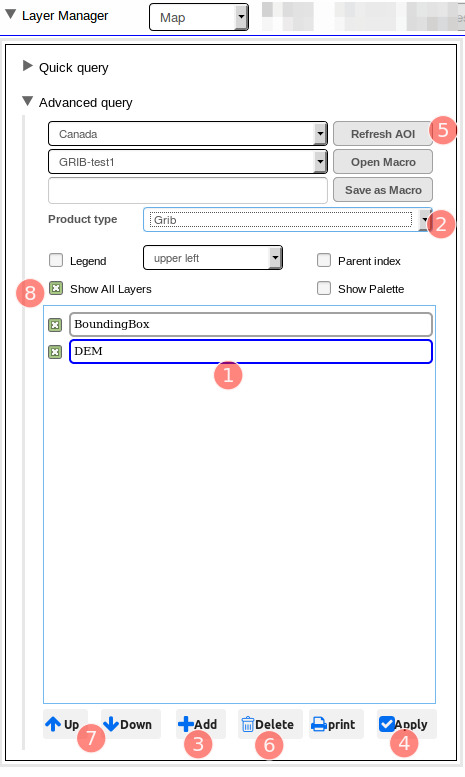
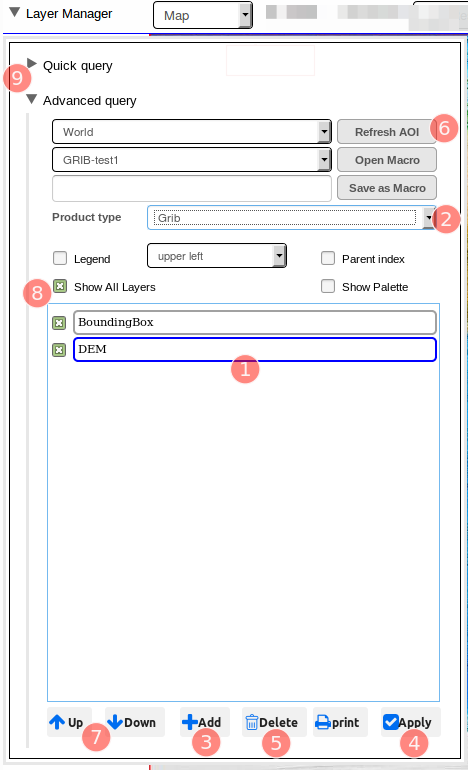
Added new content and screenshot images

Changed region(s): [[0.0, 0.0, 1.0, 1.0]]

diff --git a/userguide/source/map_module.rst b/userguide/source/map_module.rst
@@ -1,5 +1,5 @@
-Map Module
-==========
+Map
+===
 
 The Map application module is the foundation module of WebGIS as a GIS web-mapping visualization software.
 The main functionalities provided by the Map application include:
@@ -50,12 +50,20 @@ on the Main Data Display Pane.
    **2**      **Product Type Selector**
    **3**      **Add Layer Button**
    **4**      **Apply Display Button**
-   **5**      **AOI Selector & AOI Refresh Button**
-   **6**      **Delete Layer Button**
-   **7**      **Layer Up/Down Button**
+   **5**      **Delete Layer Button**
+   **6**      **AOI Selector & AOI Refresh Button**
+   **7**      **Layer Up/Down Buttons**
    **8**      **Show All Layers Toggle**
+   **9**      **Quick Query/Advanced Query Toggle**
    =========  ===========================================================
 
+The Layer Manager serves as the control centre for user to query data layers and manages the layers displayed on the Main Data Display Pane.
+As layers are added, they appear in a ordered list in the Layers List Box. All the layers appearing in the List Box are displayed as overlay layers.
+
+The order in which the layer appears in the Layers List Box directly represents the order at which the layer is being rendered on the Main Data Display Pane.
+The bottom-most layer in the List Box is the layer rendered on the background layer; the next layer up in the List Box , when rendered on the Display Pane, 
+is overlaying over the previous layer; and the top-most layer in the List Box is the layer rendered as the foreground layer. 
+The **Layer Up/Down Buttons** allows user to move the selected layer up or down as to alter its overlay order when rendered on the Main Data Display Pane.
 
 Main Data Display Pane
 ----------------------
@@ -70,9 +78,109 @@ Alternatively, you can use the Map Navigation Control located on the right side 
 in and out respectively and clicking on an arrow key is panning the map in the respective direction by one step.
 
 
-Selecting Product Type
-----------------------
+Adding Static Layer
+-------------------
 
-The Map Module allows visualization of meteorlogical products on a map.
-Many of the aviation products such as GRIB, SIGWX and OPMET can all be displayed using the Map module.
+As mentioned earlier, the Layer Manager is pre-loaded with two default layers: the DEM and Bounding Box.
+Both of these layers are static layers, which are geo-referenced layers that do not contain any temporal data.
+
+To add a static layer to the display, use the **Product Type Selector** to select *Static Layer* as the Product type 
+and click on the **Add Layer Button**. The Add Static Layers dialog appears. All the available static layers will be listed in this dialog.
+Select the one to be added, and click Add. The added static layer will appear in the **Layers List Box** together with the other two default layers.
+To refresh the display of all the static layers on the **Main Data Display Pane**, click on **Apply Display Button**.
+ 
+.. figure:: images/static_layers_dialog.png
+   :width: 150
+
+.. Need figure showing the display of static layers
+
+Adding a GRIB Layer
+*******************
+
+To add a new GRIB data layer, using the **Product Type Selector**, select GRIB as the Product type and click on the **Add Layer Button**.
+The following GRIB Layer dialog appears.  
+
+.. figure:: images/grib_layer_dialog.png
+  
+   The GRIB Layer Dialog
+
+   
+
+Different Rendering Types
+-------------------------
+
+Adding a SIGWX Layer
+********************
+
+To add a new SIGWX data layer, using the **Product Type Selector**, select SIGWX as the Product type and click on the **Add Layer Button**.
+The following SIGWX Layer dialog appears.  
+
+.. figure:: images/sigwx_layer_dialog.png
+
+   The SIGWX Layer Dialog
+
+Adding Opmet Data
+*****************
+
+Station Models plotting and other OPMET Data can also be displayed as overlay on top of the map data.
+To overlay Station Models and other OPMET data on the map, under the **Product Type** drop-down list, select OPMET
+and the following will appear in the Layer Manager.
+
+.. figure:: images/opmet_sigmet_rawdata2.png
+
+   Querying OPMET Data for map display
+
+.. figure:: images/opmet_sigmet_rawdata1.png
+
+   Querying OPMET Data for map display
+
+.. figure:: images/opmet_station_models1.png
+
+   Station Models displayed on the Map
+
+.. figure:: images/opmet_station_models2.png
+
+   Station Models displayed on the Map
+
+.. figure:: images/opmet_sigmet_area1.png
+
+   SIGMET Data on the Map
+
+
+
+Quick Query Dialog
+******************
+
+By default, upon first login, the **Layer Manager** opens with the **Advanced Query Dialog** expanded while keeping the **Quick Query Dialog** in the collapsed state.
+The **Quick Query Dialog** is located above the Advanced Query Dialog and is in the collapsed state whenever the Advanced Query Dialog is expanded.
+Only either one of two dialogs can be used at one time. To use the **Quick Query Dialog**, click on the arrow next to the **Query Query** label to expand it. This also toggles
+the Advanced Query dialog to collapse. 
+
+In general, the **Quick Query** is compact and customized version of the **Advanced Query Dialog** and provides a subset of query functionalities available from the Advanced Query.
+It is intended to provide a easy and quick way to query the most common types of WAFS products for display on the Map, 
+while any data queries done using the Quick Query Dialog can also be done already with the Advanced Query Dialog.
+
+.. figure:: images/layer_manager_quick_query_grib.png
+
+   The Quick Query Dialog 
+
+.. table:: Interface Description
+   :widths: 8 50
+   :align: left
+
+   =========  ===========================================================
+     no.      component description
+   =========  ===========================================================
+   **1**      **UTC Time Clock**
+   **2**      **User Name Display**
+   **3**      **Logout Button**
+   **4**      **Area Of Interest Management Tool**
+   **5**      **Data Verification Panel Toggle**
+   **6**      **New Alert Panel Toggle**
+   **7**      **Status Bar**
+   **8**      **Application Module Selector**
+   **9**      **Layer Manager**
+   **10**     **Main Data Display Pane**
+   =========  ===========================================================
+
 

diff --git a/userguide/source/aoi_management.rst b/userguide/source/aoi_management.rst
@@ -1,0 +1,47 @@
+Area of Interest Management
+===========================
+
+Area of Interest or AOI is the area of a map region, on which geo-referenced data are of concern to the user. 
+In WebGIS, the AOI is defined by its map location and extent expressed in latitude, longitude coordinates.
+and its map projection.  
+All the AOI's are to be used with the Map application module. WebGIS software already comes with a set of pre-defined AOI's
+which can be found in the Area of Interest Management Tool.
+
+The Area Of Interest Management Tool also provide user with the ability to create, modify, delete, set as default an Area Of Interest for use in the Map Module.
+As shown in the figure below, there are four menu items found in the Area of Interest Management Tool: *Create, Modify, Delete, Set Default.*
+
+.. figure:: images/aoi_management_menu_items1.png
+
+   The four menu items under Area Of Interest Management Tool: *Open, Create, Modify, Delete, Set Default.*
+
+The list of all the available AOIs can be found by clicking on the *Open* menu item. The AOI with an asterisk(*) beside its name indicates it is the default AOI.
+By clicking on any AOI from the list, it will open the selected AOI in the Map module ready for use.
+
+Creating an Area of Interest
+****************************
+
+.. figure:: images/aoi_management_create_new1.png
+
+   GUI of the tool to create an AOI  
+
+Modifying and Deleting an Area Of Interest
+******************************************
+
+To modify an existing AOI, select the **Modify** menu item and under it, select the AOI to be modified. The AOI will be opened in the same tool that is used for creating an AOI.
+The extent of the AOI can then be modified and saved back to the AOI.
+
+To delete an existing AOI, select the **Delete** menu item and under it, select the AOI to be deleted. The selected AOI will then be removed from the list of available AOI's.
+
+Setting the Default Area of Interest
+************************************
+
+The default AOI is the AOI that is loaded by Layer Manager in the Map module whenever the user logs in to WebGIS.
+To set an AOI as the default, simply select the **Set Default** menu item and under it, click on the AOI that needs to be set as the default.
+
+The list of all the AOI's created through Area Of Interest Management Tool are also shown and made available in the Advanced Query dialog within the Layer Manager.
+To refresh the display with a new AOI in the Map Module, in the Advanced Query dialog select from the AOI drop-down list the desired AOI and clicked on the 
+**Refresh AOI Button**. 
+
+.. figure:: images/aoi_canada_map1.png
+   
+   WebGIS opened with the default AOI set to Canada

diff --git a/userguide/source/macros.rst b/userguide/source/macros.rst
@@ -1,0 +1,59 @@
+Macros and Task Scheduling
+===========================
+
+The concept of Macros is to allow user to simplify a multi-step process when creating a map product into a single step.
+
+Normally, when a user creates a map product, it requires multiple steps such as selecting the product types, adding the layers,   
+select the rendering methods for each layer, customizing the display preferences for each layer.
+
+A macro can be created to save all these steps into a single encapsulation and can be called upon any time in the future.
+This enables recurring products to be created accurately for display with a single call to the macro and saves the user the time
+in creating the product every time.
+
+Together with user-defined macros, the **Task Scheduling** function provides further convenience to user
+by allowing tasks to be scheduled to execute the macros on a periodic basis. This allows automatic and periodic generation of map products
+that are readily accessible by users without the need to manually execute the macros every time.
+
+The Macro Manager is the dialog that provides all the tools for user to manage user-defined macros and it is launched from the Layer Manager. 
+In the Layer Manager, expand the Advanced Query dialog and click on the **Open Macro** button and the Macro Manager will appear as shown below.
+
+.. figure:: images/macro_manager.png
+
+   The Macro Manager
+
+.. table:: Macro Manager Description
+   :widths: 8 50
+   :align: left
+
+   =========  ===========================================================
+     no.      component description
+   =========  ===========================================================
+   **1**      **Macro List**
+   **2**      **Macro Name Field**
+   **3**      **Logout Button**
+   **4**      **Area Of Interest Management Tool**
+   **5**      **Data Verification Panel Toggle**
+   **6**      **New Alert Panel Toggle**
+   **7**      **Status Bar**
+   **8**      **Application Module Selector**
+   **9**      **Layer Manager**
+   **10**     **Main Data Display Pane**
+   =========  ===========================================================
+
+
+Creating a Macro
+*****************
+
+Running a Macro
+***************
+
+
+Scheduling a Task to Run a Macro
+********************************
+
+The Task Scheduling dialog is launched from the Macro Manager by clicking on the **Scheduling Button**. 
+
+.. figure:: images/scheduling_dialog.png
+
+   The Macro Manager
+

diff --git a/userguide/source/opmet_module.rst b/userguide/source/opmet_module.rst
@@ -1,22 +1,42 @@
 Opmet
 =====
 
-The Opmet module is used for query WMO alpha-numeric bulletins.
+The Opmet module is used for querying WMO alpha-numeric bulletins such as METAR, TAF, SIGMET, etc.
 The data retrieval is based on a set of query criteria.
+
+To use the 
+
+.. figure:: images/gui_opmet_module1.png
+   
+   Caption
+
+Query by WMO Header
+*******************
+
+.. figure:: images/opmet_query_dialog_wmo.png
+   
+   Querying OPMET Data Using the WMO Header
+
+.. figure:: images/opmet_bulletin_display1.png
+   
+   Display of the WMO Bulletins
+
+.. figure:: images/opmet_bulletin_display2.png
+   
+   Display of the WMO Bulletins
+
+Query by ICAO Code
+******************
 
 The query criteria contains with the following.
 AOI drop-down list 
 Query based on WMO header or ICAO ID
 
+.. figure:: images/opmet_query_dialog_icao.png
+   
+   Querying OPMET Data Using the ICAO Code
+
+
 The AOI drop-down list contains a list of all the pre-defined Areas of Interest(AOI's).
 (For defining a custom Area of Interest, please read the secion on Creating an Area Of Interest)
   
-
-.. figure:: images/metwebgis_gui_overview.png
-   :width: 1000
-
-   This is the caption of the figure (a simple paragraph).
-
-To deploy a new version of MetWebGIS, you will need the WAR file containing the application.
-The WAR file needs to be deployed in an Tomcat instance.
-To do so, the easiest way is to use the HTML Manager of Tomcat.

diff --git a/userguide/source/index.rst b/userguide/source/index.rst
@@ -7,22 +7,22 @@ Welcome to MetWebGIS's documentation!
 =====================================
 
 .. toctree::
-   :caption: Introduction
+   :caption: WebGIS User Guide
    :maxdepth: 2
 
    system_overview
    gui_overview
 
 .. toctree::
-   :caption: Main Application Modules
    :maxdepth: 2
 
    map_module
    opmet_module
-   flight_plan_module
 
 .. toctree::
-   :caption: System Administration
    :maxdepth: 2
 
-   installation
+   aoi_management   
+   macros
+   animation
+

diff --git a/userguide/source/animation.rst b/userguide/source/animation.rst
@@ -1,5 +1,5 @@
-Map Module
-==========
+Animation
+=========
 
 
 Prepare the tutorial demo (optional)
